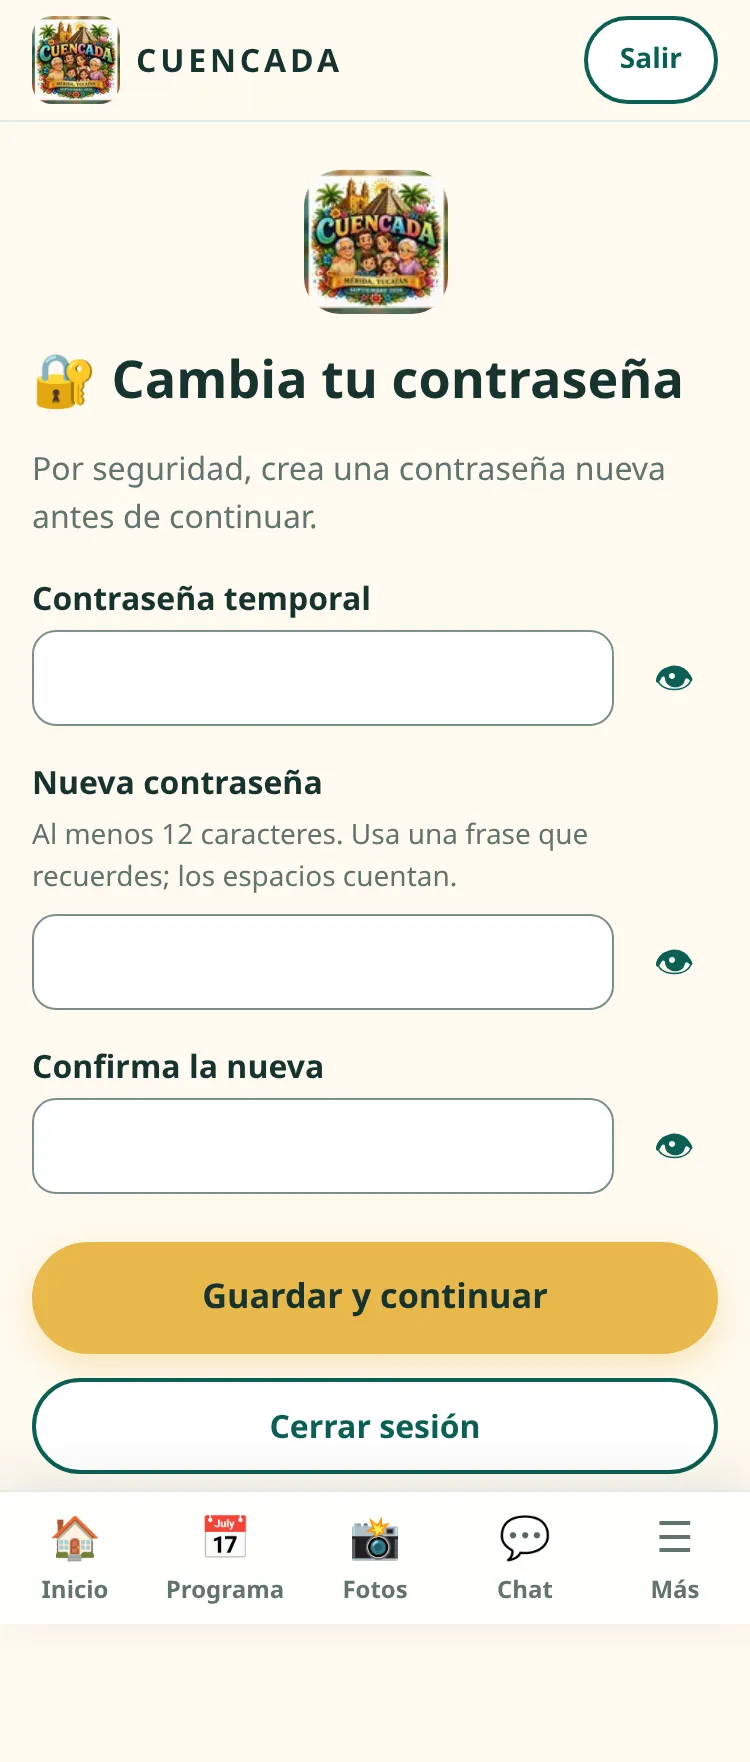
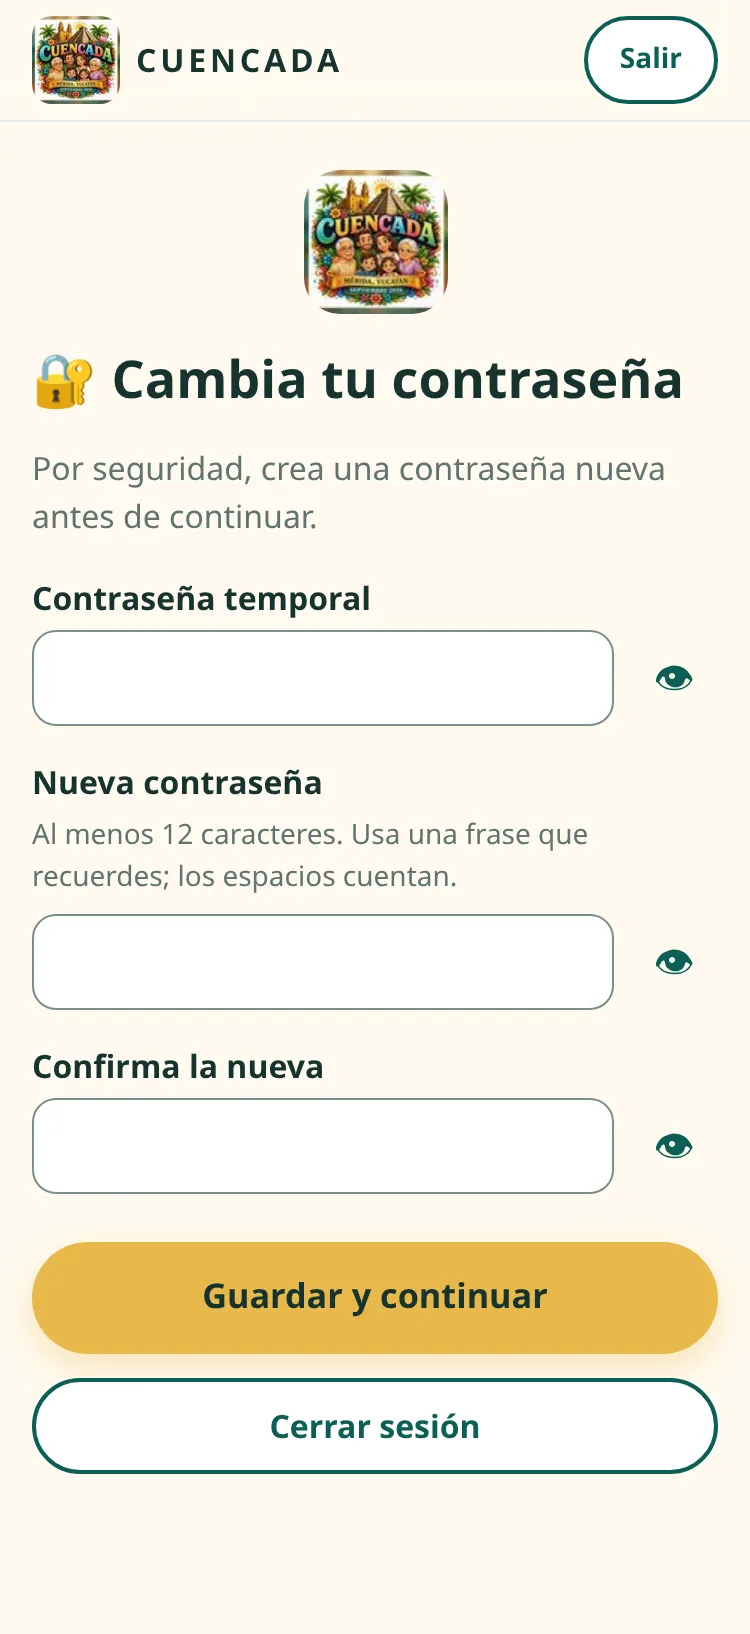
T1-FE: update WP file and re-take screenshots
Record the orchestrator decisions, the app-owned changes and the new
verification results; screenshots now show no BottomNav on auth screens
and no IP on the sessions page.

Claude-Session: https://claude.ai/code/session_01Bj2xLmagfFJ5w53HEUn9Sj

diff --git a/docs/coordination/WP-T1-FE.md b/docs/coordination/WP-T1-FE.md
@@ -30,15 +30,16 @@ Built on `origin/main` (WP-0.6 merged), against the WP-0.2 contract. The backend
   - `/verificar`: consumes the token, shows success, and refetches `/me` when logged in.
   - `/cambiar-contrasena`:
     - **forced:** "Contraseña temporal" field, "Guardar y continuar", and "Cerrar sesión" as the only way out
+    - **wrong current password:** WP-0.4 answers 400 `VALIDATION` with a `details` entry on `currentPassword`; that becomes the field error "La contraseña actual no es correcta." (401 `INVALID_CREDENTIALS` is mapped the same way, defensively). Neither logs the user out; only 401 `UNAUTHENTICATED` does
     - **voluntary:** "Contraseña actual" field, and the user returns to `state.from` afterwards
     - `credentialsReceived` (new token, `mustChangePassword: false`) lifts the gate
   - `/perfil/sesiones`:
-    - each row shows a device/browser summary from the UA, the relative last activity (with the absolute date in `title`), the IP, the opening date and an "Esta sesión" badge
+    - each row shows a device/browser summary from the UA, "Último uso" (relative, with the absolute date in `title`), the opening date and an "Esta sesión" badge. **The IP is not shown** (orchestrator: PII and confusing)
     - "Cerrar" revokes one session
     - "Cerrar las demás sesiones" asks for confirmation in an alertdialog
     - "Cerrar sesión en todos los dispositivos" runs revoke-others, then `logout()`
     - loading and error states, with Reintentar
-- **`VerifyEmailBanner`** (`components/VerifyEmailBanner.tsx`): shown for logged-in users with `emailVerified=false`, with "Reenviar enlace" (`POST /auth/email/verify-request`). **It isn't mounted yet**; see Requests.
+- **`VerifyEmailBanner`** (`components/VerifyEmailBanner.tsx`): shown for logged-in users with `emailVerified=false`, with "Reenviar enlace" (`POST /auth/email/verify-request`). Mounted in `AppLayout`'s banner slot (see "App-owned changes").
 - **Shared pieces:**
   - `AuthLayout`: a single card on cream; at ≥900px it splits 50/50 with the green hero panel and the papel picado edge
   - `PasswordField`: show/hide toggle (`aria-pressed`) plus the strength hint
@@ -95,55 +96,69 @@ Built on `origin/main` (WP-0.6 merged), against the WP-0.2 contract. The backend
 - **Auth dates** (invite expiry, session dates) use `America/Merida` (`PORTAL_TIME_ZONE`), because no Cuencada is in context. Relative times don't depend on the timezone.
 - **"Logout everywhere"** is revoke-others followed by the standard `logout()` (see Contract gaps). If revoke-others fails, the user stays logged in and sees the error, so they can retry.
 
-## Requests (outside my folders, → orchestrator)
-1. **Mount `VerifyEmailBanner` in `AppLayout`'s banner slot** (WP-0.6, `app/AppLayout.tsx`). For example: `banner={showBanner ? <StatusBanner /> : <VerifyEmailBanner />}`, or render both stacked. It renders `null` unless the user is authenticated and unverified. To keep it out of the initial chunk, it could be lazy-loaded or the slot could accept it as is; it's about 1 KB.
-2. **Auth screens without BottomNav under 900px** (wireframes §3: "no BottomNav, only a back (‹)"). That's an `AppLayout` concern. For example, a route `handle: { chrome: "minimal" }` read by the layout. Today the auth pages render inside the normal shell.
-3. **Flaky `app/MorePage.test.tsx` › "logs out and goes home from Cerrar sesión"** (pre-existing race, app-owned):
-   - `MorePage` dispatches `logout()` and navigates to `/` when the POST resolves.
-   - `RequireAuth`'s `<Navigate to="/entrar">` effect sometimes runs after that navigation and wins.
-   - It failed in 2 of 4 full-suite runs here and passes alone.
-   - Suggested fix: navigate to `/` (or `/entrar`) **before** dispatching `logout()`, or have the test accept `/entrar`.
-4. **`MorePage` "Sesiones" row label:** the wireframe says "🔐 Sesiones y seguridad". Optional.
+## App-owned changes (authorized by the orchestrator, separate commit)
+1. **`app/AppLayout.tsx`: verify-email banner.** The banner slot renders the status notice and/or `VerifyEmailBanner`. The banner is `React.lazy`-loaded and only rendered when the user is authenticated with `emailVerified === false`, so `authApi` stays out of the initial chunk. It's a 0.65 KB gzip chunk.
+2. **No BottomNav on the auth screens.**
+   - `shared/lib/featureRoutes.ts` gains `MINIMAL_CHROME` (a route `handle`) and `wantsMinimalChrome(handle)`.
+   - `features/auth/routes.tsx` sets the handle on `/entrar`, `/entrar/enlace`, `/invitacion`, `/recuperar`, `/restablecer`, `/verificar` and `/cambiar-contrasena`.
+   - `AppLayout` checks `useMatches()` and omits the BottomNav, which also drops its bottom padding. The BottomNav was already hidden at ≥900px.
+   - `/perfil/sesiones` keeps it.
+   - The wireframe's back button (‹) is not added; I kept the change minimal.
+3. **`app/MorePage.tsx`: logout race fixed.**
+   - "Cerrar sesión" now navigates to `/` first and dispatches `logout()` from the page's unmount cleanup, so it only runs once the new route has committed (or an error boundary replaced the page).
+   - Navigating first and then logging out right away was not enough. RR7 commits navigations in a transition, so a sync `loggedOut` re-rendered the still-mounted `/mas` tree and the guard's `/entrar` redirect won.
+   - The test now waits for both the anonymous state and the final location, and checks the location again after the logout settles.
+4. **"Más" row renamed** to "Sesiones y seguridad".
+5. **Tests:** `AppLayout.test.tsx` covers no BottomNav on each auth route, none during the forced change, and the banner shown or hidden. `MorePage.test.tsx` is updated as described above.
 
-## Contract gaps (→ Architect / T1-BE)
-1. **No single "logout everywhere" endpoint.** It's composed from `POST /auth/sessions/revoke-others` + `POST /auth/logout`. That's fine, but it isn't atomic: if the second call fails, the pending-logout marker from WP-0.6 covers it.
-2. **Wrong current password on change-password.** The contract doesn't say which code it returns. The UI assumes 401 `INVALID_CREDENTIALS` and shows a field error. **It must not be 401 `UNAUTHENTICATED`**, which the base query treats as a revoked session and logs the user out.
-3. **Invite consent:** there's no `consent` / `acceptedTermsAt` on `inviteAcceptInputSchema`. If the family wants the wireframe's checkbox to mean anything, the server has to record it.
-4. **`InviteInspectResponse` has no `kind`** for expired vs. used vs. revoked. This is deliberately generic, and the UI shows one message.
-5. **`POST /auth/email/verify-request` rate limiting** isn't specified. The UI handles 429.
-6. **`SessionListItem` has no location.** The wireframe's "Mérida · hace 2 min" would need GeoIP on the server; the UI shows the IP instead.
+## Contract gaps (→ Architect / T1-BE): resolved by the orchestrator
+1. **Logout everywhere:** keep revoke-others + `logout()` for now. T1-BE will add `POST /api/auth/logout-all`; the switch is a **follow-up** for this track.
+2. **Wrong current password:** 400 `VALIDATION` with `details[].path === "currentPassword"` (WP-0.4). Implemented and tested.
+3. **Invite consent checkbox:** skipped.
+4. **Generic invite-invalid state:** kept, so invite state doesn't leak.
+5. **`POST /auth/email/verify-request` rate limit:** unspecified. The UI handles 429.
+6. **Sessions have no city, and the IP is not shown.** Rows show the device/browser summary + "Último uso" only.
 
 No changes to `packages/types/src/auth.ts`.
 
-## Verification (2026-10-06)
+## Verification (2026-10-06, after the orchestrator's decisions)
 - `pnpm lint`: biome, 0 diagnostics (256 files).
 - `pnpm typecheck`: 5/5 tasks succeed.
-- `pnpm test`: 46 files, 425 passed, 1 todo (final run all green). The one failure seen in some runs is the pre-existing `MorePage` race (Request 3). The web project alone has 30 files and 223 tests, all passing in 2 consecutive runs. The T1 tests:
+- `pnpm test`: **4 consecutive full runs green**, each 46 files, 437 passed, 1 todo. The `MorePage` race is fixed.
+  - One earlier run, before the final `MorePage` fix, also timed out unrelated tests at 30s while the machine was under heavy load. That didn't recur.
+- T1 tests by file:
   - Login (16)
   - Magic link (6)
   - Invite (11)
   - Forgot/Reset (9)
   - Verify (5)
-  - Change password (6)
-  - Sessions (6)
+  - Change password (8, including 400 `VALIDATION` on `currentPassword`, a `VALIDATION` error on another field, and 401 `INVALID_CREDENTIALS`, none of which log out)
+  - Sessions (7, including "never shows the IP")
   - Banner (4)
   - forms (13)
   - sessionDisplay (9)
   - slice (2 new)
   - fragment pages (updated)
-- `pnpm build`: succeeds. `pnpm --filter @cuencada/web size`: the initial JS is **166.65 kB gzip** (budget 190), 518.6 kB raw. Auth code sits in lazy chunks:
+  - AppLayout (+9)
+- `pnpm build`: succeeds. `pnpm --filter @cuencada/web size`: the initial JS is **166.89 kB gzip** (budget 190), 519.4 kB raw. Auth code sits in lazy chunks:
 
   | Chunk | Size (gzip) |
   |---|---|
+  | `VerifyEmailBanner` | 0.65 KB |
   | shared `forms` | 2.25 KB |
-  | `SessionsPage` | 3.40 KB |
-  | `InvitePage` | 2.19 KB |
-  | `LoginPage` | 1.48 KB |
-  | `ChangePasswordPage` | 1.24 KB |
+  | `SessionsPage` | 3.4 KB |
+  | `InvitePage` | 2.2 KB |
+  | `LoginPage` | 1.5 KB |
+  | `ChangePasswordPage` | 1.3 KB |
 
-- **Screenshots** in `docs/ux/screenshots/t1/`: `entrar`, `invitacion` (with a password typed, to show the meter), `cambiar-contrasena` (forced) and `sesiones`, each at 375 and 1280.
+- **Screenshots** (re-taken) in `docs/ux/screenshots/t1/`: `entrar`, `invitacion` (password typed, so the meter shows), `cambiar-contrasena` (forced) and `sesiones` (no IP), each at 375 and 1280.
+  - The auth screens no longer show the BottomNav at 375.
   - Taken with headless Chromium against the Vite dev server, with `/api` proxied to a throwaway stub. Neither the stub nor the temporary config was committed.
   - **Horizontal overflow** is 0 px at 320, 375 and 1280 on all four pages, measured as the max `getBoundingClientRect().right` of every element in `<main>` minus the viewport width.
-  - In the 375 full-page shots the fixed BottomNav appears mid-page. That's a capture artifact: the page reserves padding for it.
 
 ## Review log
+- 2026-10-06, orchestrator decisions:
+  - wrong-current-password mapping (400 `VALIDATION` + 401)
+  - IP removed from the sessions page
+  - Requests 1–4 applied as app-owned changes, in a separate commit
+  - contract gaps resolved, with `logout-all` as a follow-up
